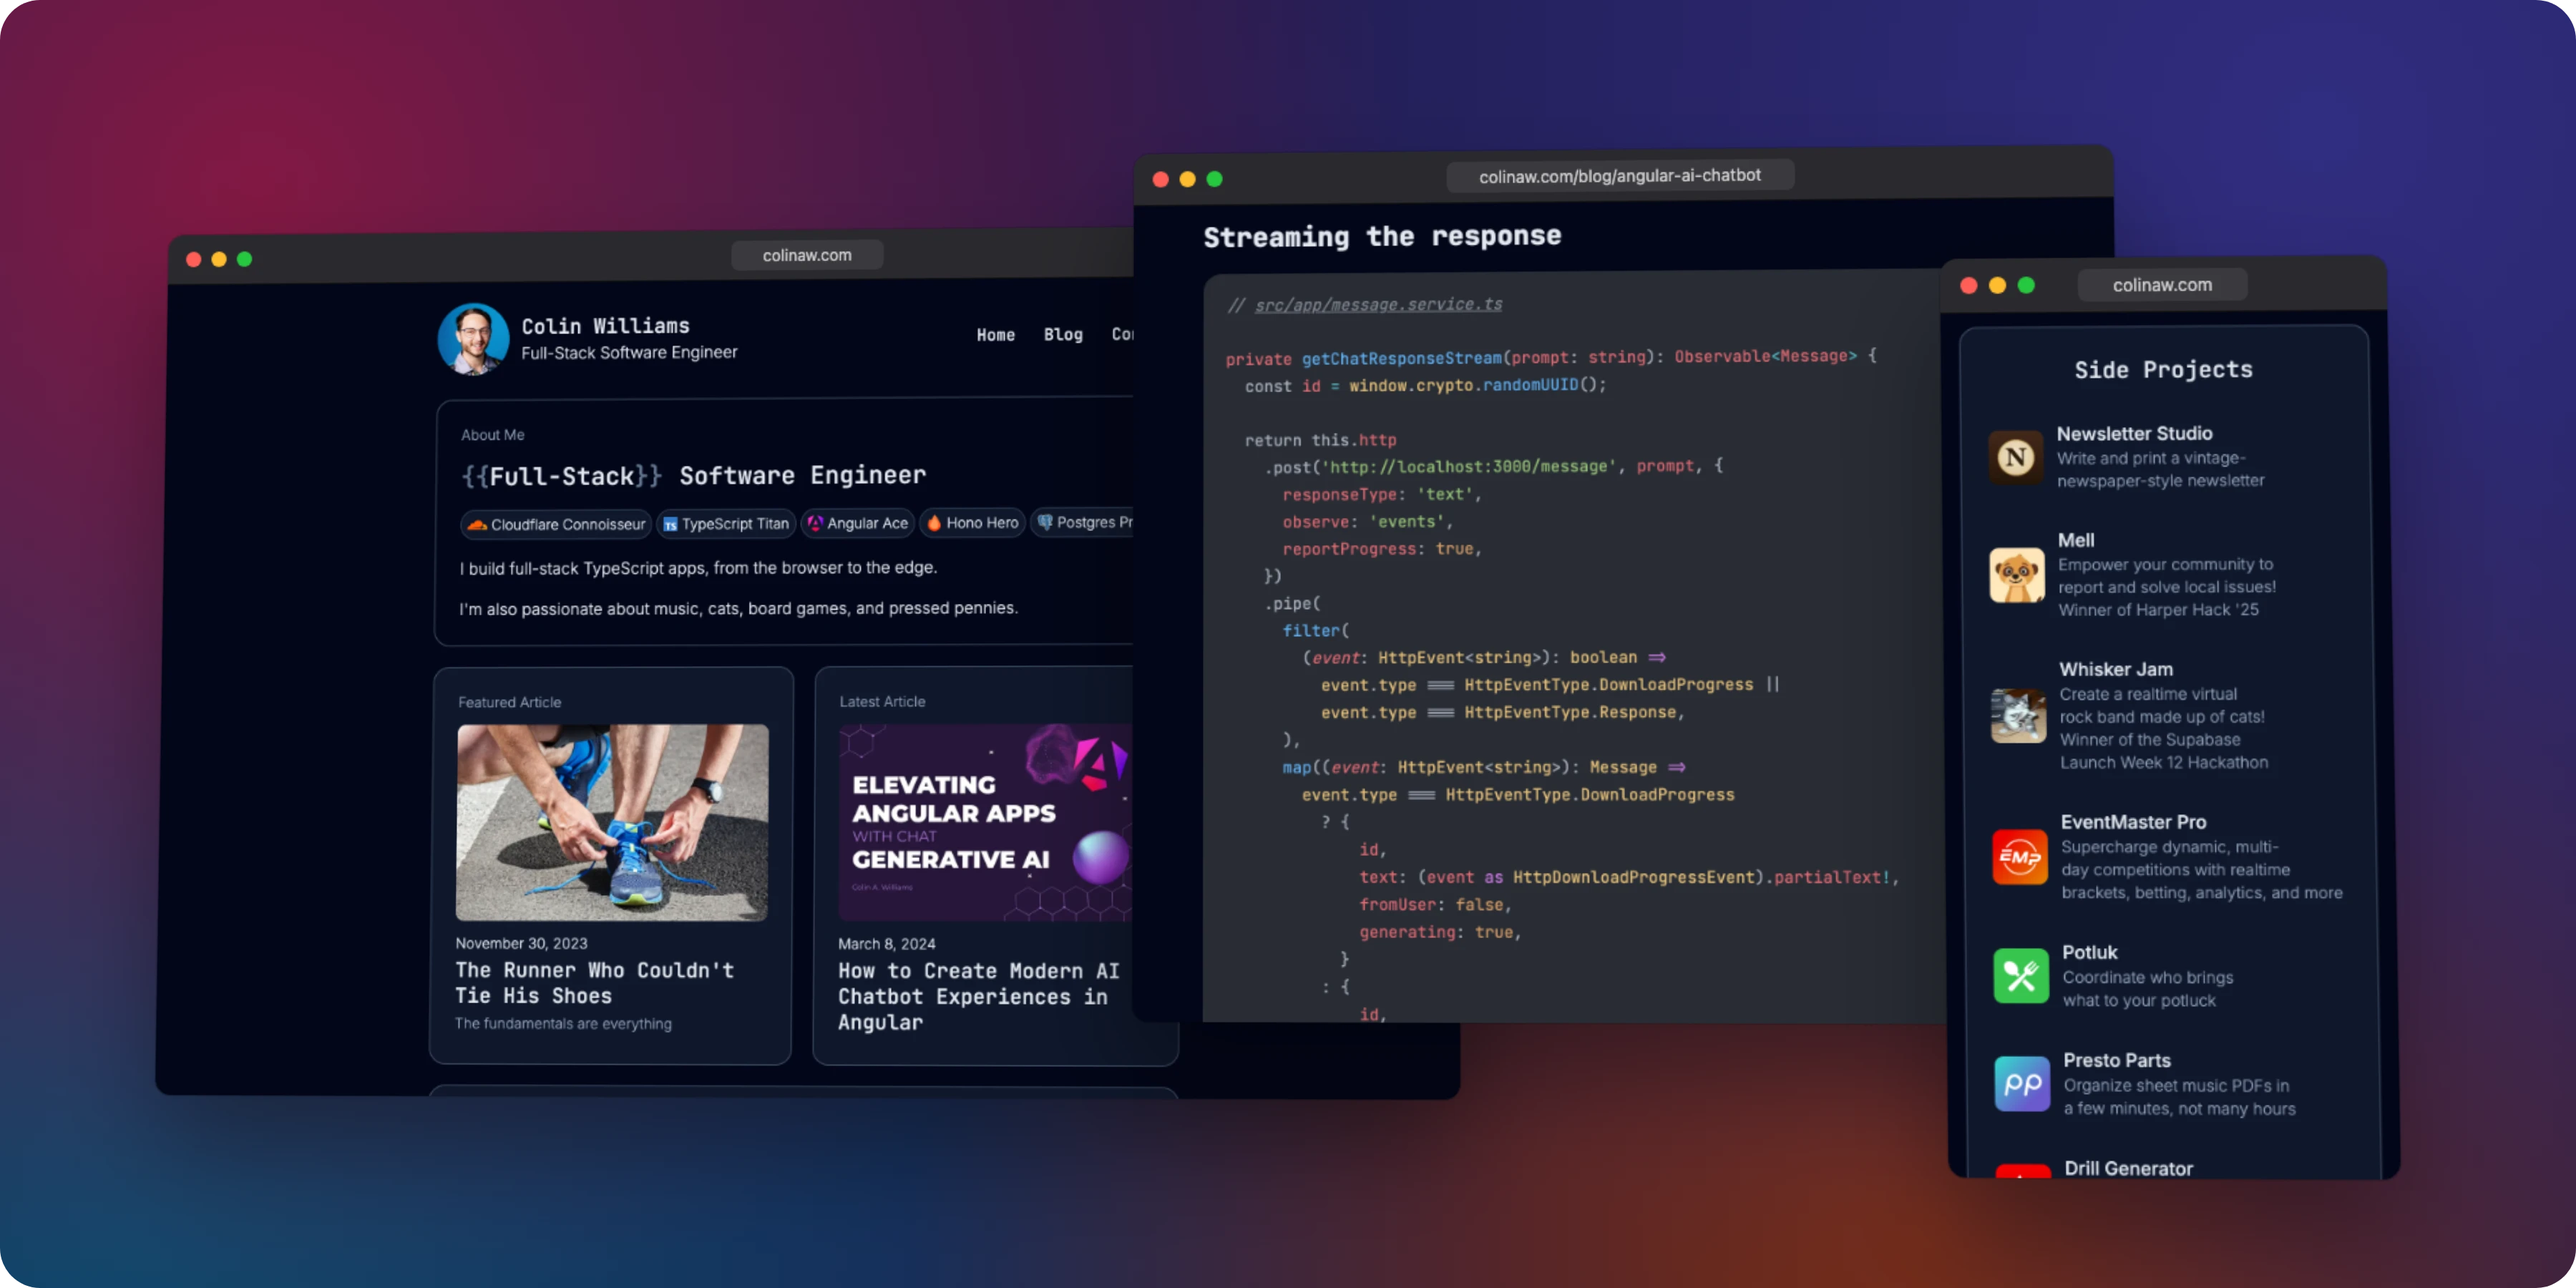
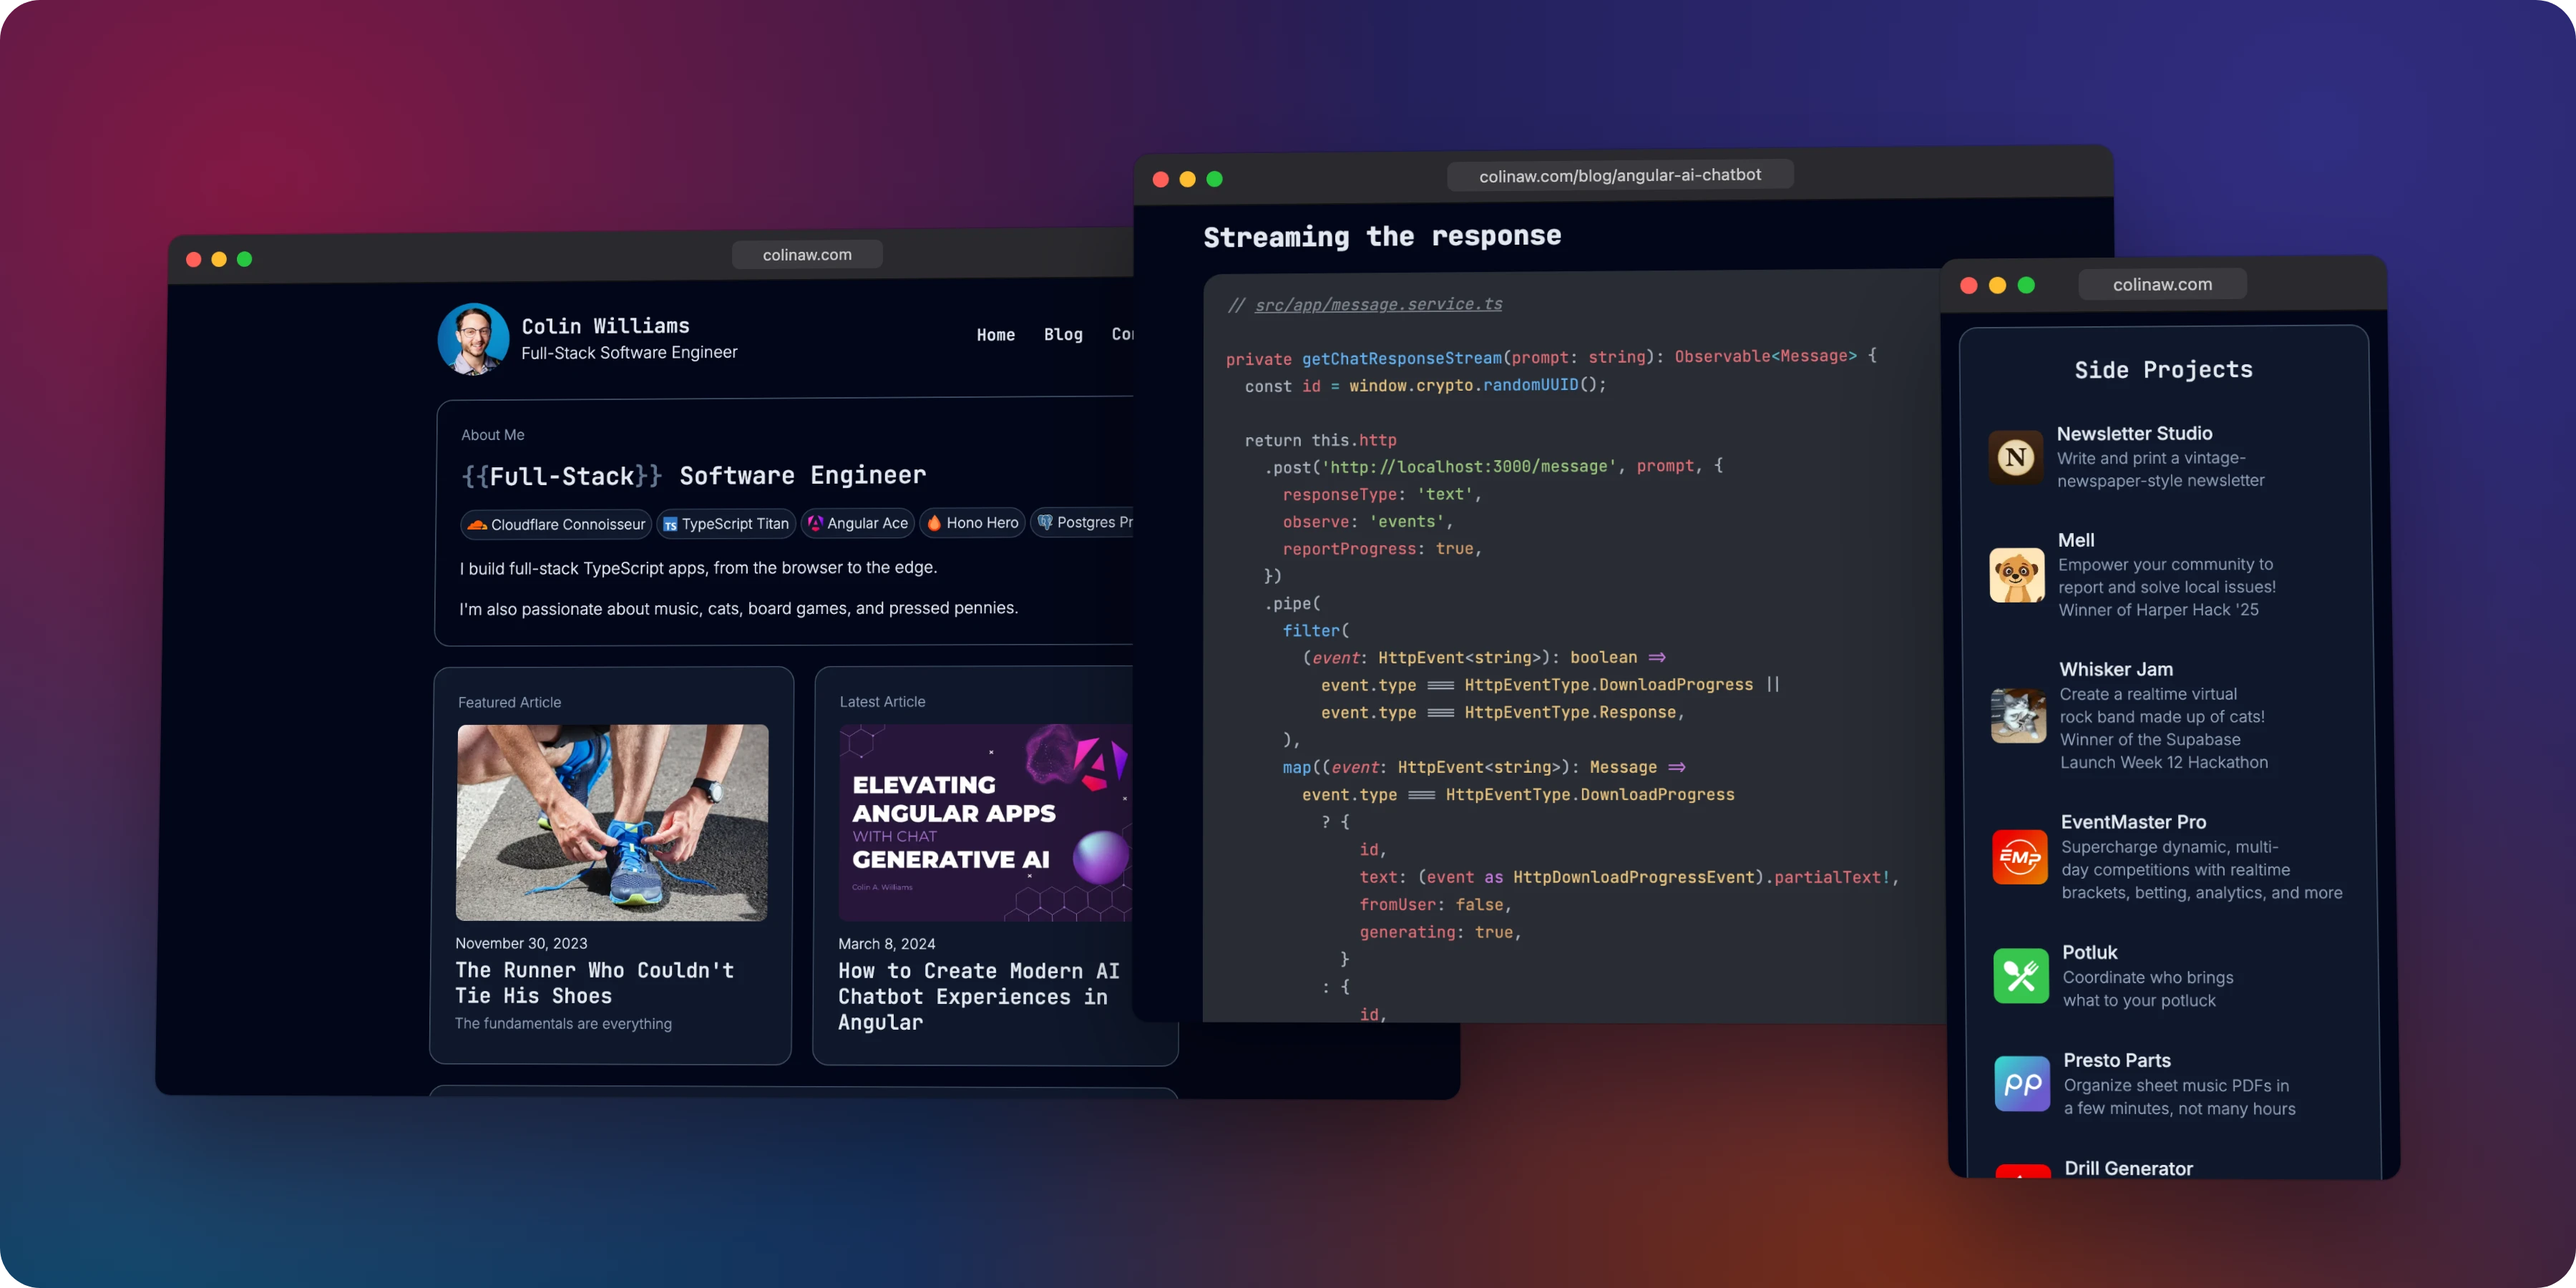
docs(readme): sharpen the tilted screenshots
Chromium rasterizes 3D-transformed layers below the device pixel ratio,
so the text in the tilted windows looked soft on high-DPI displays. The
screenshot script now lays each window out at 2x and scales it back
down, which makes Chromium rasterize it at full resolution.

Also drop the extra line break above the screenshot.

diff --git a/README.md b/README.md
@@ -12,7 +12,6 @@
 </div>
 
 <br />
-<br />
 
 <p align="center">
   <a href="https://colinaw.com">
